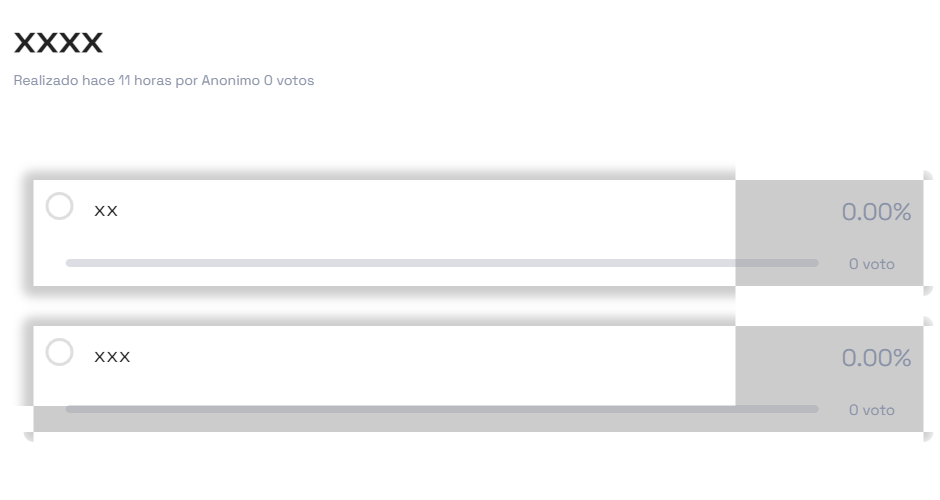
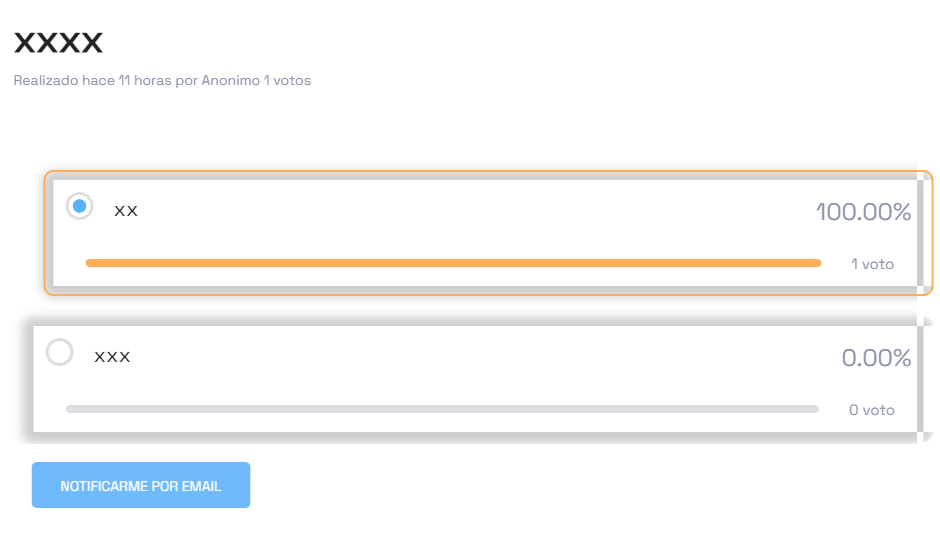
minipollsubieidno

Changed region(s): [[0.0, 0.3, 1.0, 0.96], [0.0, 0.06, 0.3394, 0.18]]

diff --git a/app/static/css/poll.css b/app/static/css/poll.css
@@ -2,7 +2,7 @@ body {
     font-family: 'Space Grotesk', sans-serif;
     color: #222;
     font-weight: 400;
-    font-size: 14px;
+    font-size: 16px;
 }
 
 .company {
@@ -56,7 +56,6 @@ body {
 .text-block-14 {
     color: #59b1ff;
     position: absolute;
-    margin-left: -20px;
 }
 .nav-bar {
     padding-top: 21px;
@@ -64,7 +63,7 @@ body {
 }
 
 .section-hero {
-    padding-top: 75px;
+    padding-top: 60px;
     padding-bottom: 20px;
     background-color: #fff;
     text-align: center;
@@ -89,8 +88,8 @@ body {
 .crear-producto {
     position: relative;
     border-style: solid;
-    border-width: 8px;
-    border-color: rgba(0, 0, 0, 0.2);
+    border-width: 6px;
+    border-color: rgba(0, 0, 0, 0.08);
     border-radius: 15px;
     background-color: rgba(0, 0, 0, 0.05);
     cursor: pointer;
@@ -164,16 +163,39 @@ margin-bottom: 48px;
 background-color: #6d7280;
 color: white;
 }
-.button{
-display: inline-block;
-margin-right: 8px;
-margin-left: 8px;
-border-radius: 5px;
-color: #fff;
-font-size: 16px;
-text-align: center;
-text-decoration: none;
-text-transform: uppercase;
+.buttonN{
+    display: inline-block;
+    margin-right: 8px;
+    margin-left: 8px;
+    padding: 14px 29px;
+    border-radius: 5px;
+    background-color: #6d7280;
+    -webkit-transition: background-color 300ms ease;
+    transition: background-color 300ms ease;
+    font-family: 'Space Grotesk', sans-serif;
+    color: #fff;
+    font-size: 14px;
+    text-align: center;
+    text-decoration: none;
+    text-transform: uppercase;
+    border: none;
+    cursor: pointer;
+}
+.buttonN:hover{
+    background-color: #848a9c;
+    color: #fff
+}
+.blue{
+    background-color: #59b1ff;
+    font-family: 'Space Grotesk', sans-serif;
+}
+.blue:hover{
+    background-color: #4a99df;
+}
+.isFlexCenter{
+    display: flex;
+    justify-content: center;
+    text-align: center;
 }
 .is-gray{
 background-color: #6d7280!important;

diff --git a/app/templates/base.html b/app/templates/base.html
@@ -33,7 +33,7 @@
             <nav class="navbar" role="navigation" aria-label="main navigation">
                 <div class="navbar-brand mr-2 is-flex is-align-items-center">
                    <a href="/" class=" is-flex is-align-items-center"><div class="logotipo"><div class="logotipo-fill"></div></div>
-                    <div class="company">eventist</div></a>
+                    <div class="company">result.app</div></a>
                     
                     <a role="button" class="navbar-burger" aria-label="menu" aria-expanded="false"
                         data-target="navbarBasicExample">
@@ -95,13 +95,13 @@
     {% block content %}{% endblock %}
 
     <footer class="section-footer">
-        <div class="w-container">
+        <div class="w-container isFlexCenter">
             <div class="columns">
                 <div class="column">
                    
                     <div class="div-block-16">
                         <a href="/" class=" is-flex is-align-items-center"><div class="logotipo-dark"><div class="logotipo-fill"></div></div>
-                            <div class="company">eventist</div></a>
+                            <div class="company">result.app</div></a>
                     </div>
                    
                     <div class="div-block-15"><a href="#" class="social-icon w-inline-block"><img src="https://uploads-ssl.webflow.com/60b13cec71296d20a8aa5bf0/60b13cec71296d43d2aa5c12_14-social-email.png" width="20" alt=""></a><a href="#" target="_blank" class="social-icon w-inline-block"><img src="https://uploads-ssl.webflow.com/60b13cec71296d20a8aa5bf0/60b13cec71296d0b0faa5c13_14-social-facebook.png" width="20" alt=""></a><a href="#" target="_blank" class="social-icon w-inline-block"><img src="https://uploads-ssl.webflow.com/60b13cec71296d20a8aa5bf0/60b13cec71296de436aa5c15_14-social-twitter.png" width="20" alt=""></a></div>

diff --git a/app/templates/index.html b/app/templates/index.html
@@ -18,7 +18,7 @@ content="Crea encuestas rápidas en segundos no necesita registro">
 {% block content %}
 <section class="section-hero">
     <div class="container">
-        <h1 class="hero-heading">Creá preguntas en tiempo real,<br>de forma simple y gratis</h1>
+        <h1 class="hero-heading">Creá preguntas gratis,<br>obtené respuestas en tiempo real</h1>
         <p class="hero-subhead">Encuestas, Q&amp;A, AMA, Quizzes y más. Sin registro, es 100% gratuito and toma
             menos de un minuto.<br></p>
 
@@ -130,8 +130,8 @@ content="Crea encuestas rápidas en segundos no necesita registro">
         </div>
 
         <div class="button-group">
-            <a href="/panel" class="button is-info ">CREAR YA</a>
-            <a href="/panel" class="button is-info is-gray ">CARACTERÍSTICAS</a>
+            <a href="/crear" class="buttonN blue ">CREAR YA</a>
+            <a href="/dashboard" class="buttonN ">CARACTERÍSTICAS</a>
         </div>
 
         <img src="{{ url_for('static', filename='img/portada2.png') }}"
@@ -286,8 +286,8 @@ content="Crea encuestas rápidas en segundos no necesita registro">
         </div>
 
         <div class="button-group">
-            <a href="/panel" class="button is-info ">CREAR ENCUESTA</a>
-            <a href="/panel" class="button is-info is-gray ">REGISTRARME</a>
+            <a href="/crear" class="buttonN blue ">CREAR ENCUESTA</a>
+            <a href="/dashboard" class="buttonN ">CARACTERÍSTICAS</a>
         </div>
 
     </div>

diff --git a/app/templates/encuesta.html b/app/templates/encuesta.html
@@ -181,10 +181,10 @@
 
             
             <div class="div-block-10">
-              <button class="submit-button-3 w-button">Notificarme por Email</button>
+              <button class="buttonN blue">Notificarme por Email</button>
                 
                 <a href="{{encuesta.3}}+"  class="link-2" v-if="resultados ==  false">Directo a los Resultados</a>
-                <a class="link-2" @click="cancelarVoto" v-if="resultados">Cancelar Mi Voto</a>
+                <a class="link-2" @click="cancelarVoto" v-if="resultados && yaVote ">Cancelar Mi Voto</a>
               </div>
           
         </div>

diff --git a/app/templates/encuestaSimple.html b/app/templates/encuestaSimple.html
@@ -44,8 +44,9 @@
                    
                     <div class="text-block-5"  @click="addOpcion">+ Agregar otra opción</div>
                     <div class="button-group">
-                        <button class="button is-info " @click="crearEncuesta">PUBLICAR</button>
-                        <button class="button is-info is-gray ">OPCIONES AVANZADAS</button>
+                        <button class="buttonN blue " @click="crearEncuesta">PUBLICAR</button>
+                        <button class="buttonN ">OPCIONES AVANZADAS</button>
+
                     </div>
                    
             </div>

diff --git a/app/datos/__init__.py b/app/datos/__init__.py
@@ -1,4 +1,5 @@
 #datos produccion
+
 datos = {
    "host":"localhost",
     "database":"minipoll",
@@ -6,6 +7,8 @@ datos = {
     "userPass":"nacho*123",
 }
 url_site = "minipoll.jemyxs2xli-zqy3jz1yy6kg.p.runcloud.link"
+
+
 
 #datos localhost
 """
